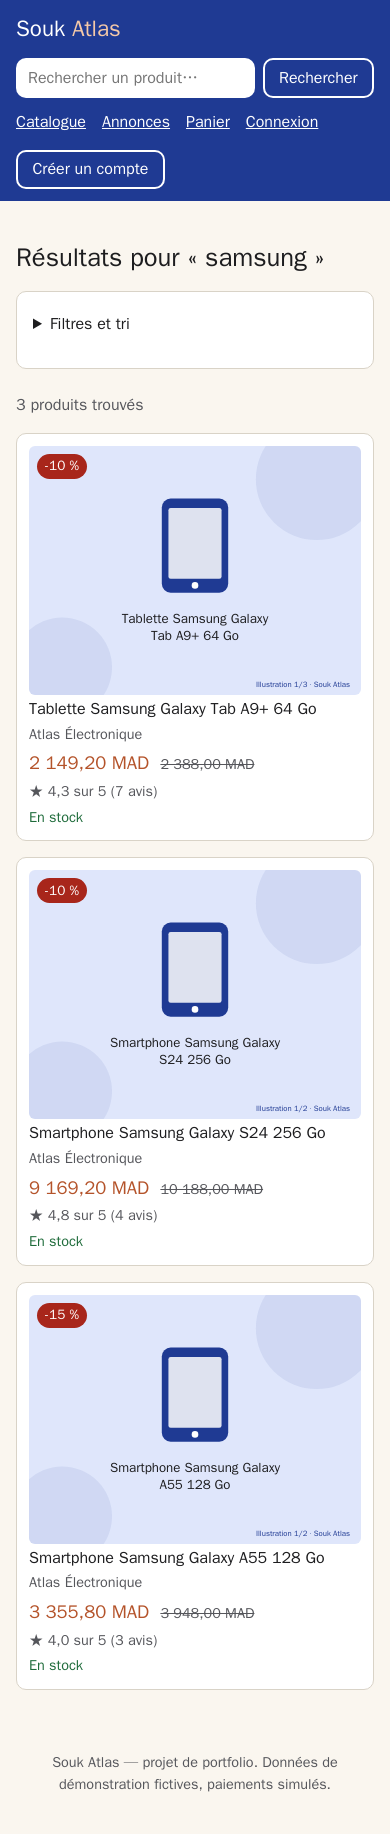
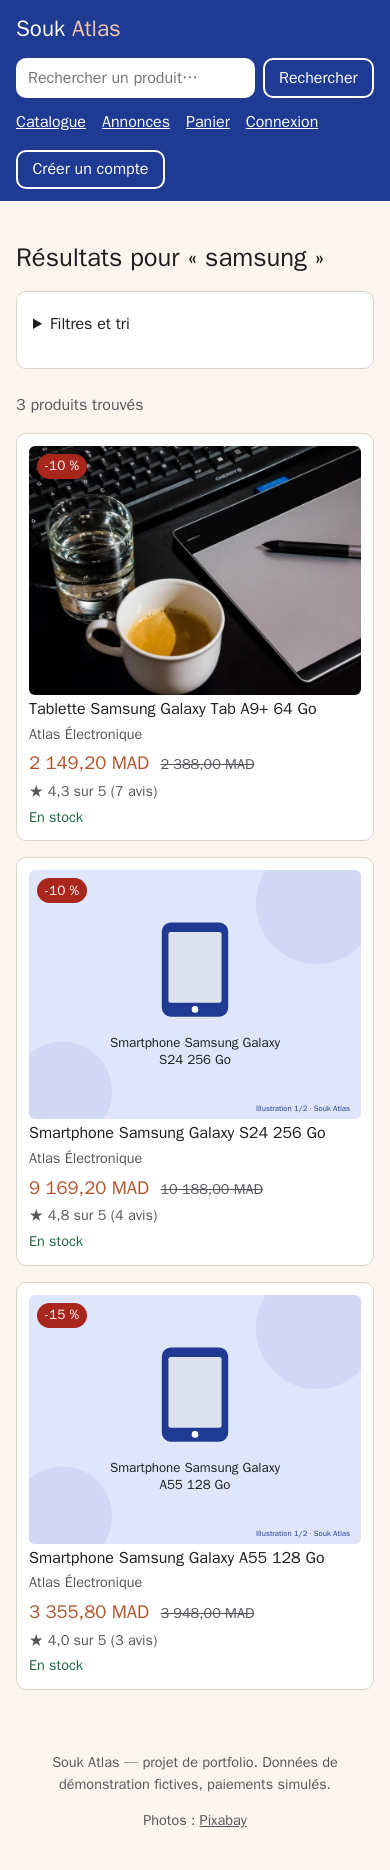
docs: photos de démo dans le README, captures refaites

diff --git a/README.md b/README.md
@@ -129,7 +129,7 @@ Plus de 1 000 vérifications automatiques, toutes vertes (site démarré) :
 | PL/SQL (300) | chaque procédure, cas normaux et cas d'erreur, avec un petit framework maison (`PKG_TEST`) |
 | PHP (96) | routeur, CSRF, validations, appel du moteur C++ (absent, trop lent, réponse invalide) |
 | HTTP (397) | parcours complets avec `curl` : rôles, CSRF, commandes, stock, annonces, console… |
-| Navigateur (34) | Playwright : JavaScript, accessibilité clavier, WebAssembly et son repli |
+| Navigateur (35) | Playwright : JavaScript, accessibilité clavier, WebAssembly et son repli, repli des photos |
 | Compatibilité Oracle 21c | `./database/verifier_21c.sh` installe tout sur un Oracle XE 21c temporaire et relance les tests |
 
 Les tests navigateur ne touchent pas aux captures d'écran de `docs/captures/` :
@@ -154,8 +154,21 @@ cpp/            common/ (partagé), engine/ (moteur), console/ (outil admin), wa
 docker/         images PHP et C++, script d'initialisation d'Oracle
 tests/          tests PHP, HTTP (bash) et navigateur (Playwright)
 docs/           architecture.md et captures d'écran
-tools/          générateurs (illustrations, CSV d'exemple)
+tools/          générateurs (photos de démo, illustrations, CSV d'exemple)
 ```
+
+### Photos de démonstration
+
+Les produits et annonces de démo utilisent des photos génériques de [Pixabay](https://pixabay.com)
+(auteurs et liens sur la page `/credits`), recadrées en 800 × 600 et hébergées dans `public/images/demo/`.
+Quand Pixabay n'avait pas de photo juste (sans marque ni logo), la vue garde son illustration SVG.
+Pour les retélécharger, il faut une clé Pixabay dans `.env` (`PIXABAY_API_KEY`) :
+
+```bash
+docker compose exec --user "$(id -u):$(id -g)" php php tools/photos_demo.php
+```
+
+Le choix est réglable à la main dans `tools/photos_choix.json` (photo imposée, illustration imposée, photos refusées).
 
 ## Limites assumées
 
